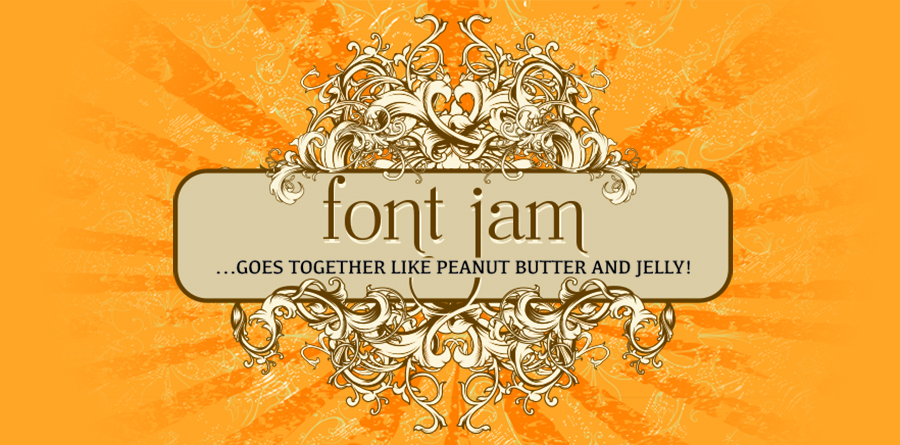
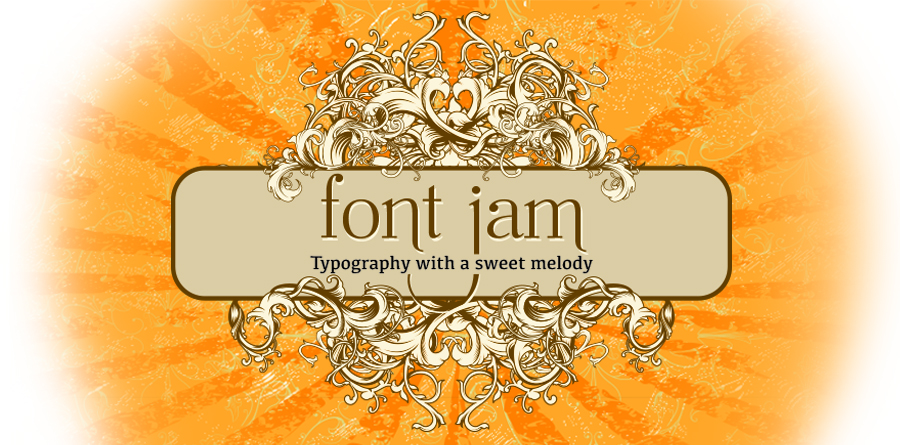
added user name to comment section and made amazing style happen. still bad font, ready to make a sandwich appn

diff --git a/app/styles/app.scss b/app/styles/app.scss
@@ -42,6 +42,10 @@ p {
   line-height: 150%
 }
 
+a {
+  text-decoration: none !important;
+}
+
 
 
 /* Guts */
@@ -59,13 +63,48 @@ body {
   background-size: cover;
 }
 
+.orange-container2 {
+  background-color: $primary-accent-color;
+  /* background-image: url('/assets/images/orange_background.jpg'); */
+  /* background-position: center; */
+  /* background-size: cover; */
+}
+
+.photo1-container {
+  /* background-color: $primary-accent-color; */
+  background-image: url('/assets/images/section_photo_1.jpg');
+  background-position: center;
+  background-size: cover;
+  height: 350px;
+  /* background: $primary-color; */
+  /* opacity: .2; */
+  vertical-align: middle;
+  display: block;
+}
+
+.photo2-container {
+  /* background-color: $primary-accent-color; */
+  background-image: url('/assets/images/section_photo_2.jpg');
+  background-position: center;
+  background-size: cover;
+  height: 350px;
+}
+
+.photo3-container {
+  /* background-color: $primary-accent-color; */
+  background-image: url('/assets/images/section_photo_3.jpg');
+  background-position: center;
+  background-size: cover;
+  height: 350px;
+}
+
 .container {
   text-align: -webkit-center;
 }
 
 header {
   background-color: $primary-color;
-  background-image: src('/assets/images/font-jam_header.jpg');
+  background-image: src('/assets/images/font-jam_header.png');
   height: 445px;
   text-align: center;
 }
@@ -85,7 +124,7 @@ header {
   }
 
   a {
-    text-decoration: none;
+    text-decoration: none !important;
     color: white;
   }
 }
@@ -100,7 +139,7 @@ ul {
   width: 1000px;
   text-align: center;
   vertical-align: middle;
-  }
+}
 
 .intro_text {
   position: relative;
@@ -124,7 +163,7 @@ ul {
   width: 1000px;
   display: block;
   /* position: absolute; */
-  margin: 50px 0;
+  margin: 50px 0 0 0;
   padding: 50px;
   text-align: center;
   clear: left;
@@ -141,6 +180,10 @@ ul {
   float: left;
   padding: 30px;
   width: 300px;
+  a {
+    text-decoration: none !important;
+    color: white;
+  }
 }
 
 .sections_chatroom {
@@ -148,6 +191,10 @@ ul {
   float: left;
   padding: 30px;
   width: 300px;
+  a {
+    text-decoration: none !important;
+    color: white;
+  }
 }
 
 .sections_contact {
@@ -155,6 +202,10 @@ ul {
   display: inline-block;
   padding: 30px;
   width: 300px;
+  a {
+    text-decoration: none !important;
+    color: white;
+  }
 }
 
 #search {
@@ -162,36 +213,61 @@ ul {
   margin: 50px 0;
   /* padding: 50px; */
   width: 1000px;
-  height: 350px;
+  /* height: 500px; */
 }
 
 .search_left {
   float: left;
-  width: 25%;
+  width: 40%;
+  text-align: right;
   /* margin: 20px 0; */
   padding: 10px;
 }
 
 .search_right {
   display: inline-block;
-  width: 75%;
+  width: 50%;
   /* margin: 10px; */
-  padding: 10px 0px;
+  padding: 10px 0;
   border-radius: 15px;
-  background-color: $secondary-color;
-  color: white;
-  padding: 10px;
-  max-height: 340px;
+  border: 5px black solid;
+  background-color: #48463c;
+  color: $primary-color;
+  padding: 0 0 20px 30px;
+  max-height: 480px;
+  overflow-x: hidden;
+  text-align: left;
 }
+
+.results {
+  color: white;
+  text-align: left;
+  }
+  a {
+    /* font-style: italic; */
+    text-align: right;
+    color: #897968;
+  }
 
 .login, #contact {
   /* display: block; */
   position: relative;
-  margin-top: 50px;
+  /* margin-top: 50px; */
   width: 1000px;
   padding: 50px;
   text-align: center;
   clear: left;
+}
+
+.chat {
+  width: 800px;
+  li {
+    border: 1px $primary-color solid;
+    border-radius: 15px;
+    margin: 20px;
+    padding: 10px;
+    text-align: left;
+  }
 }
 
 footer {
@@ -207,13 +283,29 @@ footer {
 button {
   margin: 0 20px;
   padding: 10px 20px;
-  border-radius: 15px;
+  border-radius: 5px;
   background-color: $primary-color;
   color: white;
   border: 2px solid $secondary-color;
   font-size: 75%;
   letter-spacing: 3px;
-  text-decoration: none;
+  text-decoration: none !important;
+  color: white;
+  list-style-type: none;
+}
+
+button.button-comment-save,
+button.button-comment-edit,
+button.button-comment-delete{
+  /* margin: 0 20px; */
+  /* padding: 10px 20px; */
+  /* border-radius: 5px; */
+  /* background-color: $primary-color; */
+  color: black;
+  /* border: 2px solid $secondary-color; */
+  font-size: 55%;
+  letter-spacing: 3px;
+  text-decoration: none !important;
   color: white;
   list-style-type: none;
 }

diff --git a/app/controllers/application.js b/app/controllers/application.js
@@ -31,13 +31,15 @@ export default Ember.Controller.extend(LoginControllerMixin, {
     },
 
     saveEdit: function() {
-      this.set('isEditing', false);
-      
-    },
+     this.set('isEditing', false);
+     this.get('model').save();
+   },
 
     saveComment: function() {
+      var user = this.get("session.currentUser.username");
       var comment = this.store.createRecord('comment', {
-        body: this.get('newComment')
+        body: this.get('newComment'),
+        user: user
       });
       return comment.save();
     },
